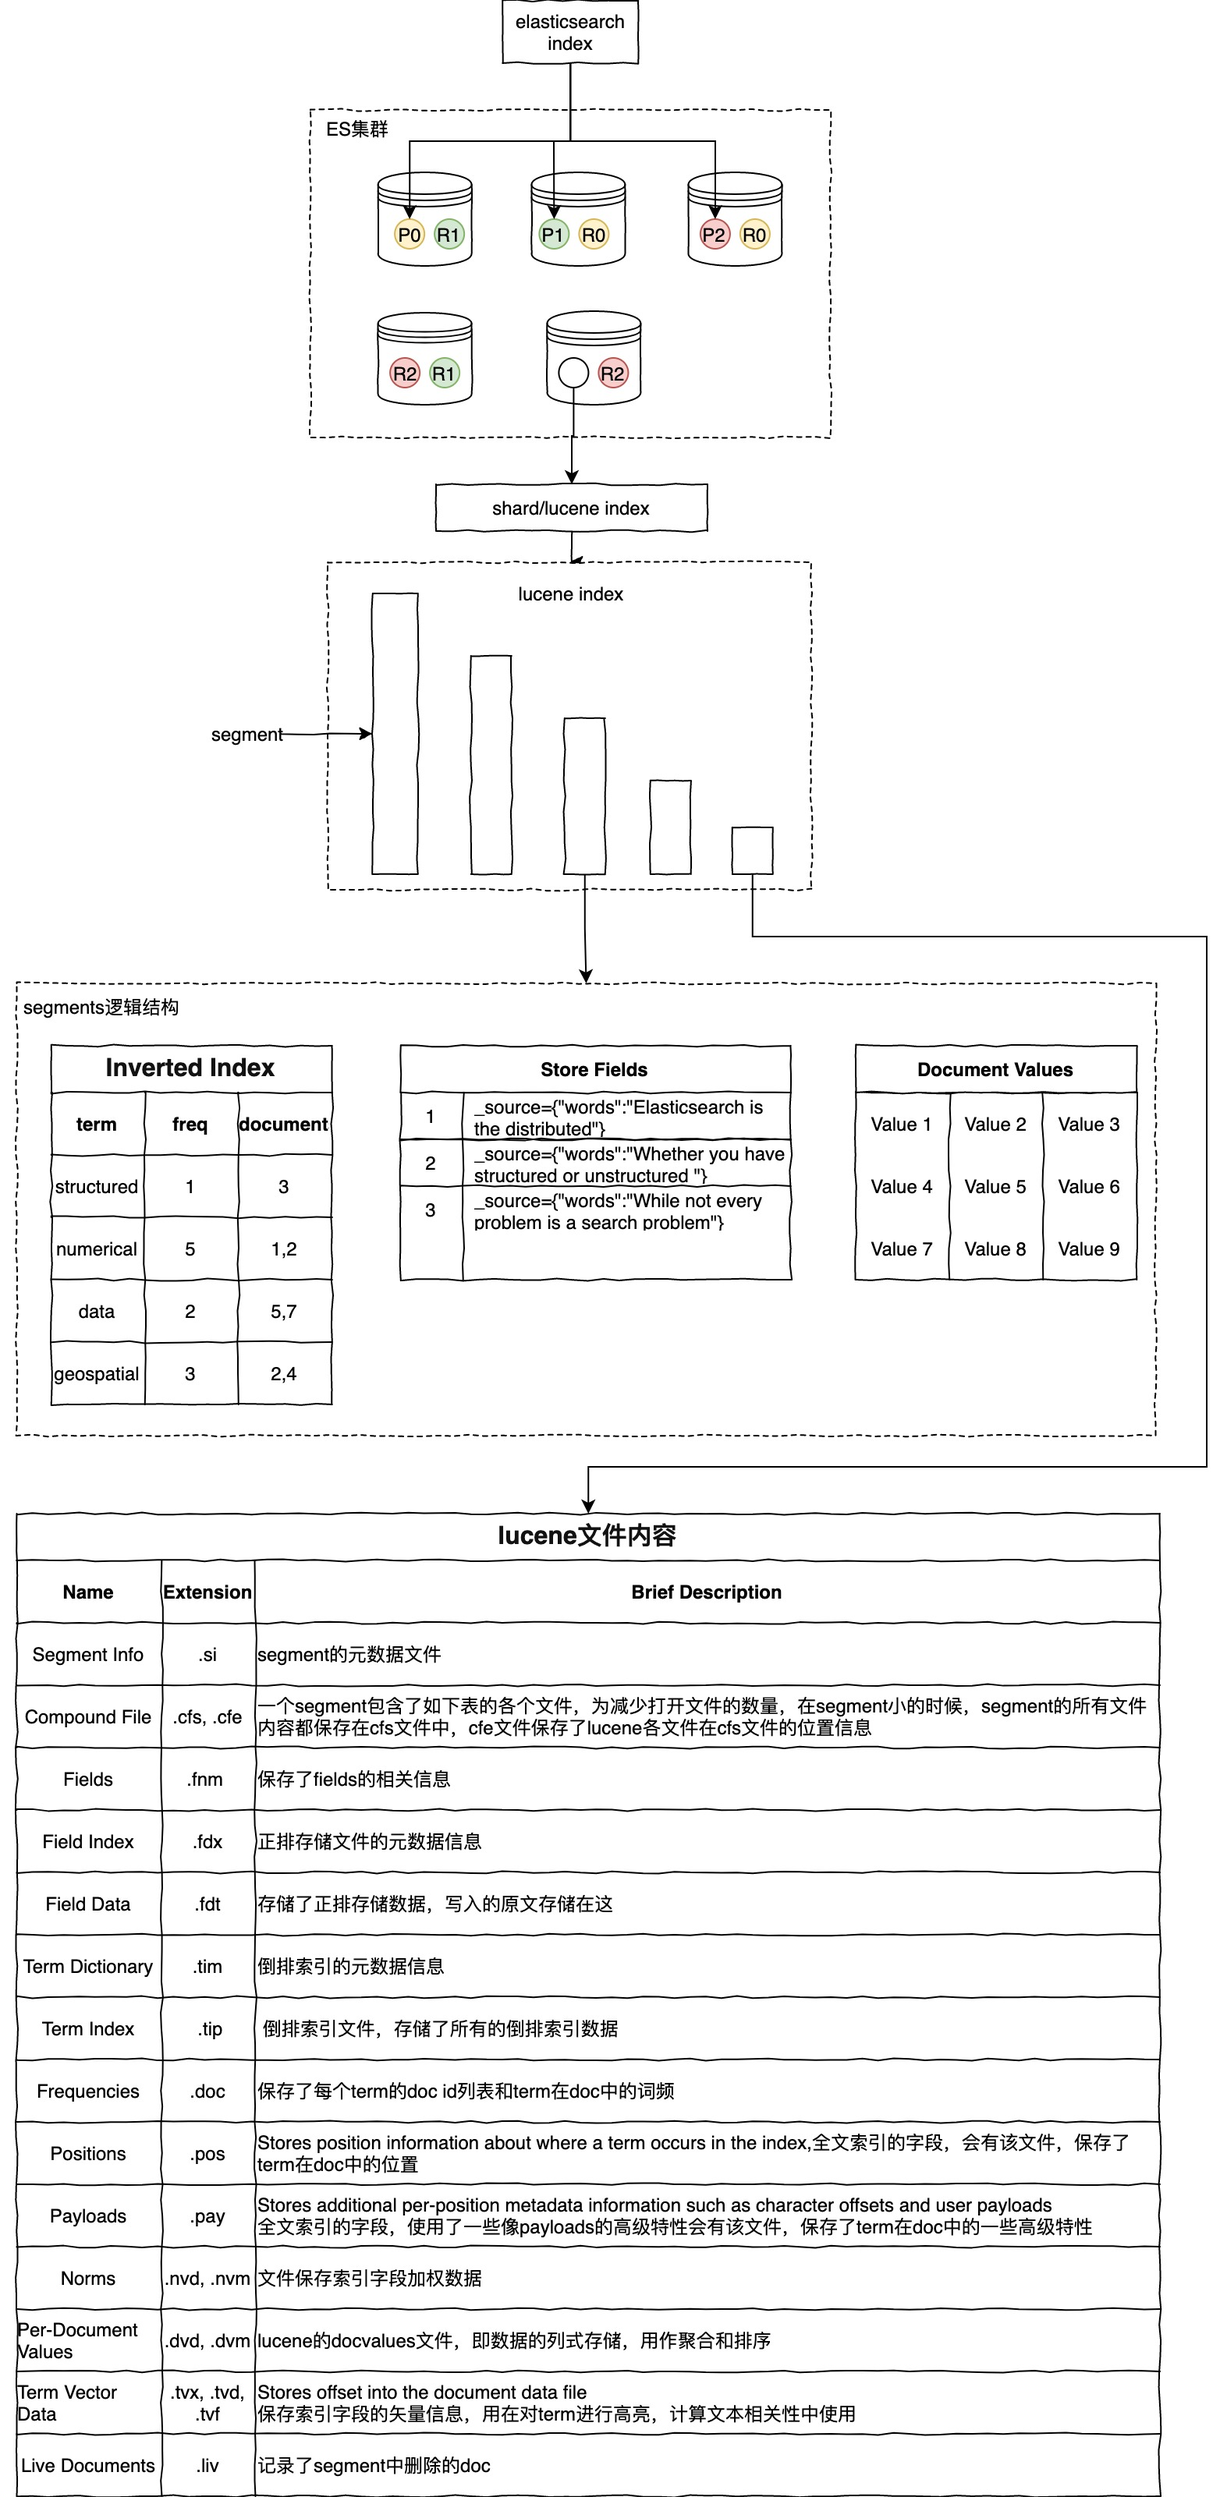
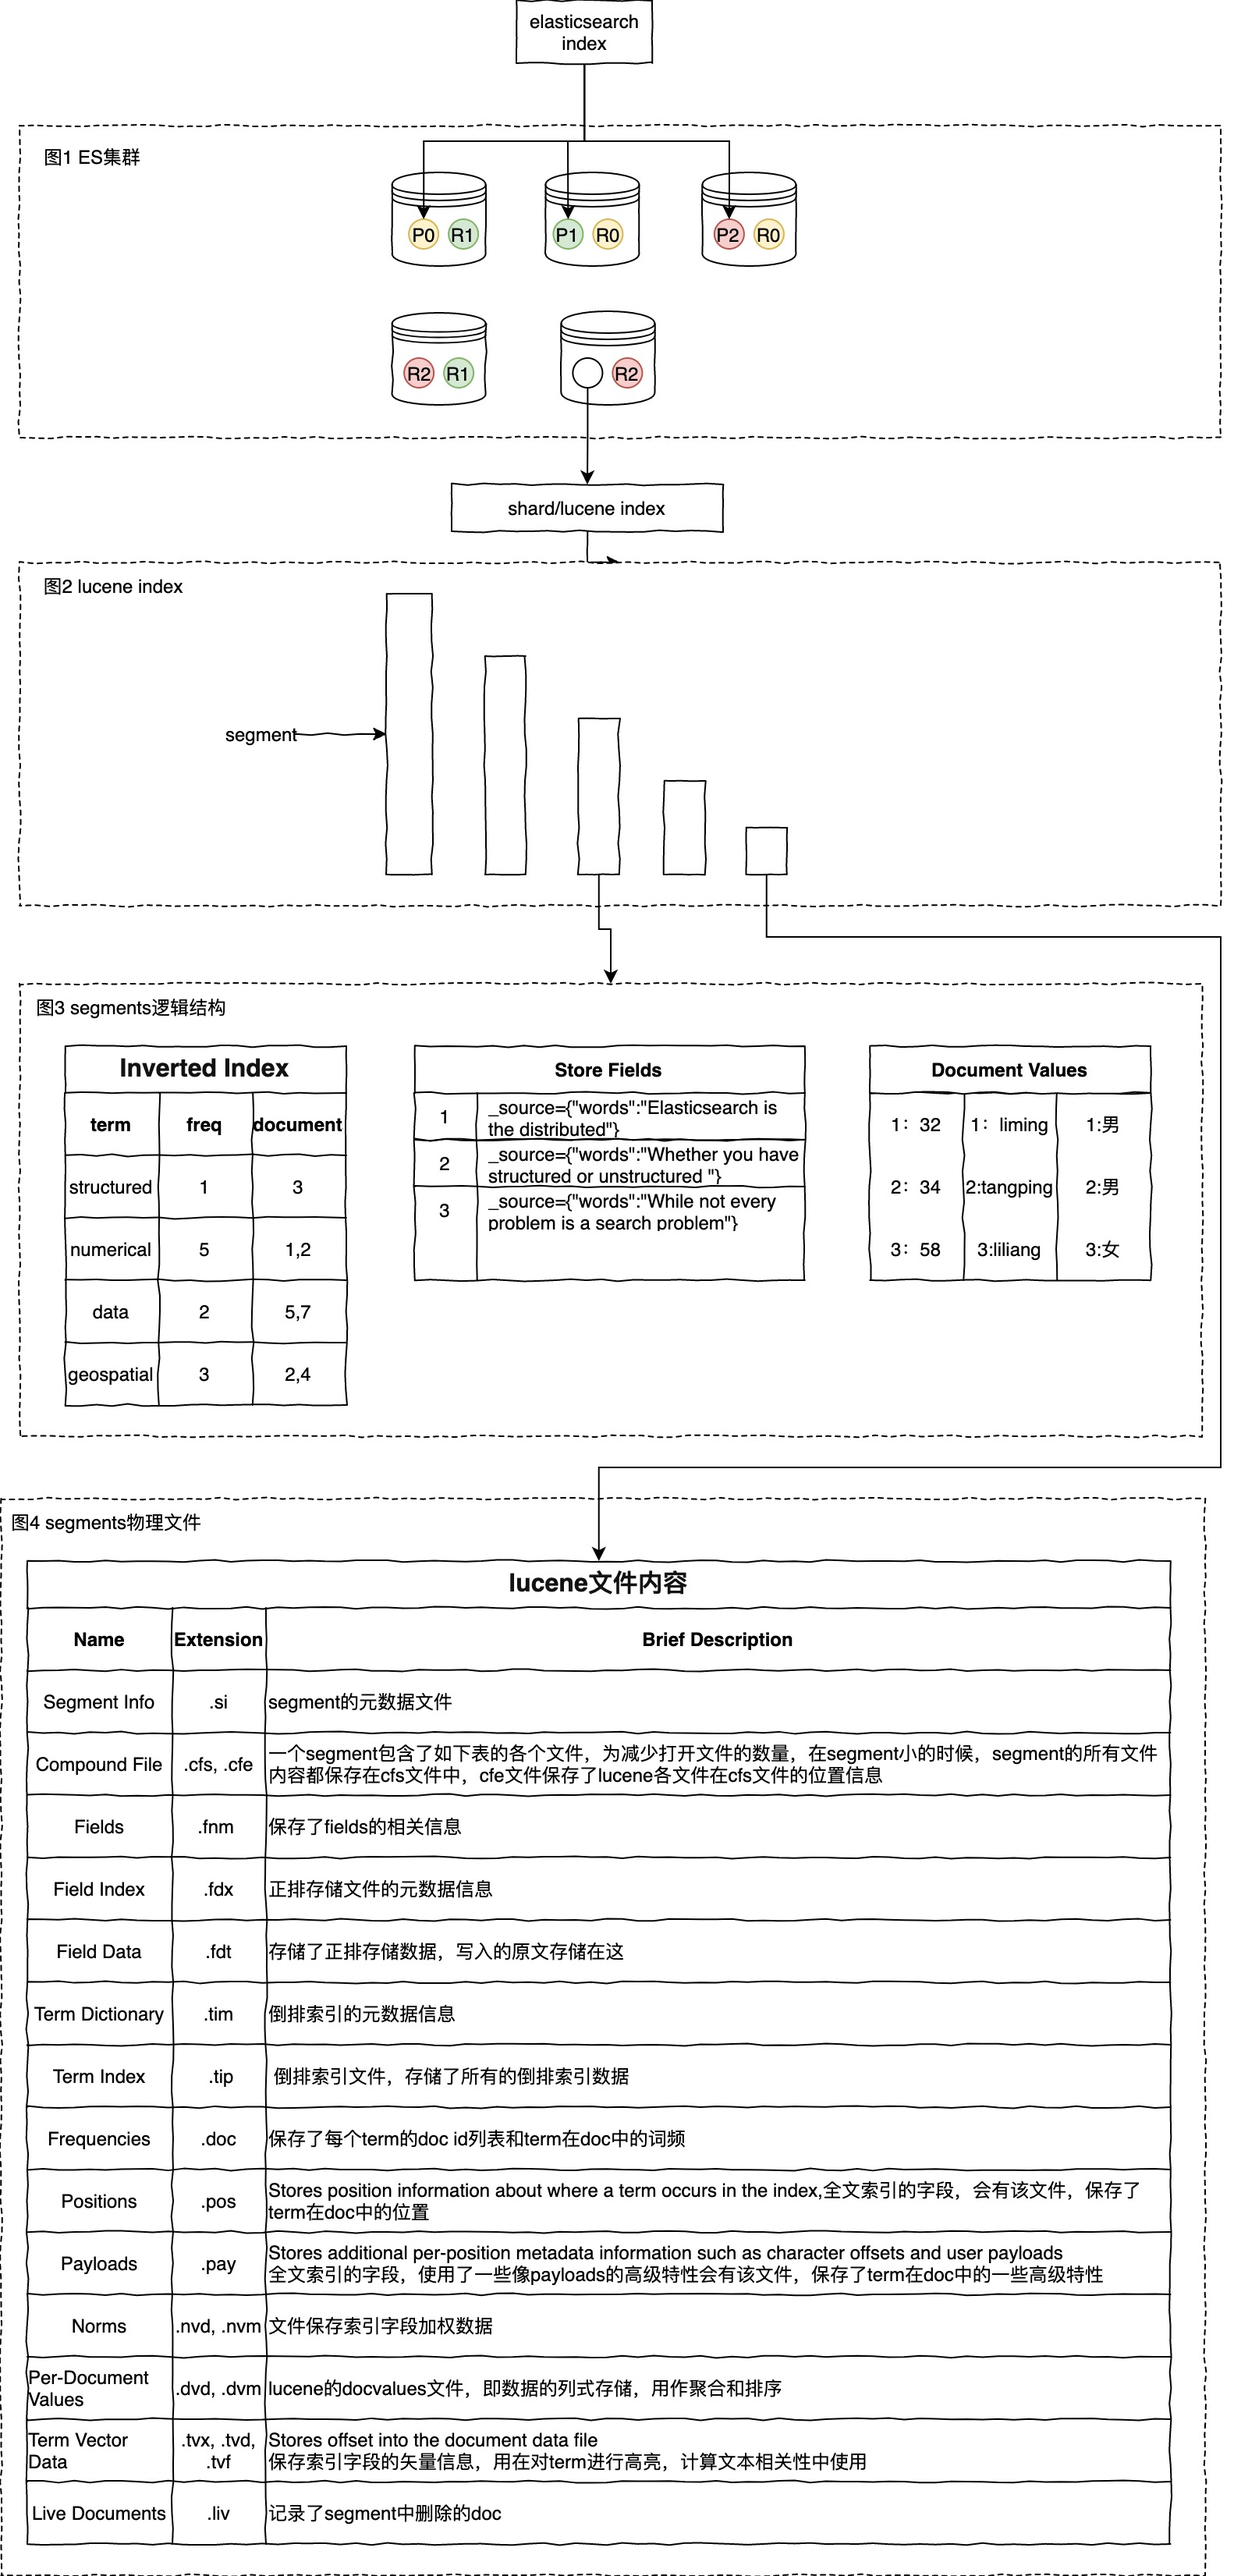
optimize:modify elasticsearch.md

diff --git a/jgodeye-ebook/store/elasticsearch.md b/jgodeye-ebook/store/elasticsearch.md
@@ -1,5 +1,32 @@
 ## es存储结构
 ![avatar](../imgs/es-store.jpg)
+- 图1 
+ES集群由多个节点(Node)组成,elasticsearch index在es集群中是按分片(Shard)存储的，在创建索引时可以指定分片数量(制定后不能修改)和副本数量(可动态修改)。图1中的index分为3个分片，每个分片指定了2个副本。
+- 图2 
+ES集群中的一个分片本质上就是集群几点上的一个lucene index。Elasticsearch是建立在lucene之上的。lucene是一个全文搜索java库。一个lucene index在是由多个小segment组成的。如果segment过多，与Hbase LSM Tree类似，当segment过多时，lucene会合并小segments。
+- 图3
+segment内部由很多数据结构，最重要的3个结构有：Inverted Index，Stored Fields，Document Values。
+    - Inverted Index : 一个有序的数据字典 Dictionary（包括单词 Term 和它出现的频率）。与单词 Term 对应的 Postings（即存在这个单词的文件）。
+    - Stored Field : Stored Fields 是一个简单的键值对 key-value。默认情况下，ElasticSearch 会存储整个文件的 JSON source。如果指定一些字段store为true，这意味着这个field的数据将会被单独存储。如果对某个field做了索引，则可以查询。
+    - Document Values。这种结构本质上就是一个列式的存储，它高度优化了具有相同类型的数据的存储结构，用来做排序、聚合、facet等。
+- 图4
+    - lucene数据元信息文件
+    文件名为：segments_xxx,该文件为lucene数据文件的元信息文件，记录所有segment的元数据信息。该文件主要记录了目前有多少segment，每个segment有一些基本信息，更新这些信息定位到每个segment的元信息文件。lucene元信息文件还支持记录userData，Elasticsearch可以在此记录translog的一些相关信息。
+    - segment的元信息文件
+    文件后缀：.si,每个segment都有一个.si文件，记录了该segment的元信息。segment元信息文件中记录了segment的文档数量，segment对应的文件列表等信息。
+    - fields信息文件
+    文件后缀：.fnm, 该文件存储了fields的基本信息。fields信息中包括field的数量，field的类型，以及IndexOpetions，包括是否存储、是否索引，是否分词，是否需要列存等等。
+    - 数据存储文件
+    文件后缀：.fdx, .fdt, 索引文件为.fdx，数据文件为.fdt，数据存储文件功能为根据自动的文档id，得到文档的内容，搜索引擎的术语习惯称之为正排数据，即doc_id -> content，es的_source数据就存在这,索引文件记录了快速定位文档数据的索引信息，数据文件记录了所有文档id的具体内容。
+    - 倒排索引文件
+    索引后缀：.tip,.tim, 倒排索引也包含索引文件和数据文件，.tip为索引文件，.tim为数据文件，索引文件包含了每个字段的索引元信息，数据文件有具体的索引内容。5.5.0版本的倒排索引实现为FST tree，FST tree的最大优势就是内存空间占用非常低。
+    - 倒排链文件
+    文件后缀：.doc, .pos, .pay，.doc保存了每个term的doc id列表和term在doc中的词频，全文索引的字段，会有.pos文件，保存了term在doc中的位置，全文索引的字段，使用了一些像payloads的高级特性才会有.pay文件，保存了term在doc中的一些高级特性。
+    - 列存文件（docvalues）
+    Elasticsearch中的列式存储的名称，Elasticsearch除了存储原始存储、倒排索引，还存储了一份docvalues，用作分析和排序。
+
+
+
 ## es写入过程
 ## 参考
 - [41张图解 ElasticSearch 原理](https://zhuanlan.zhihu.com/p/336889554)
